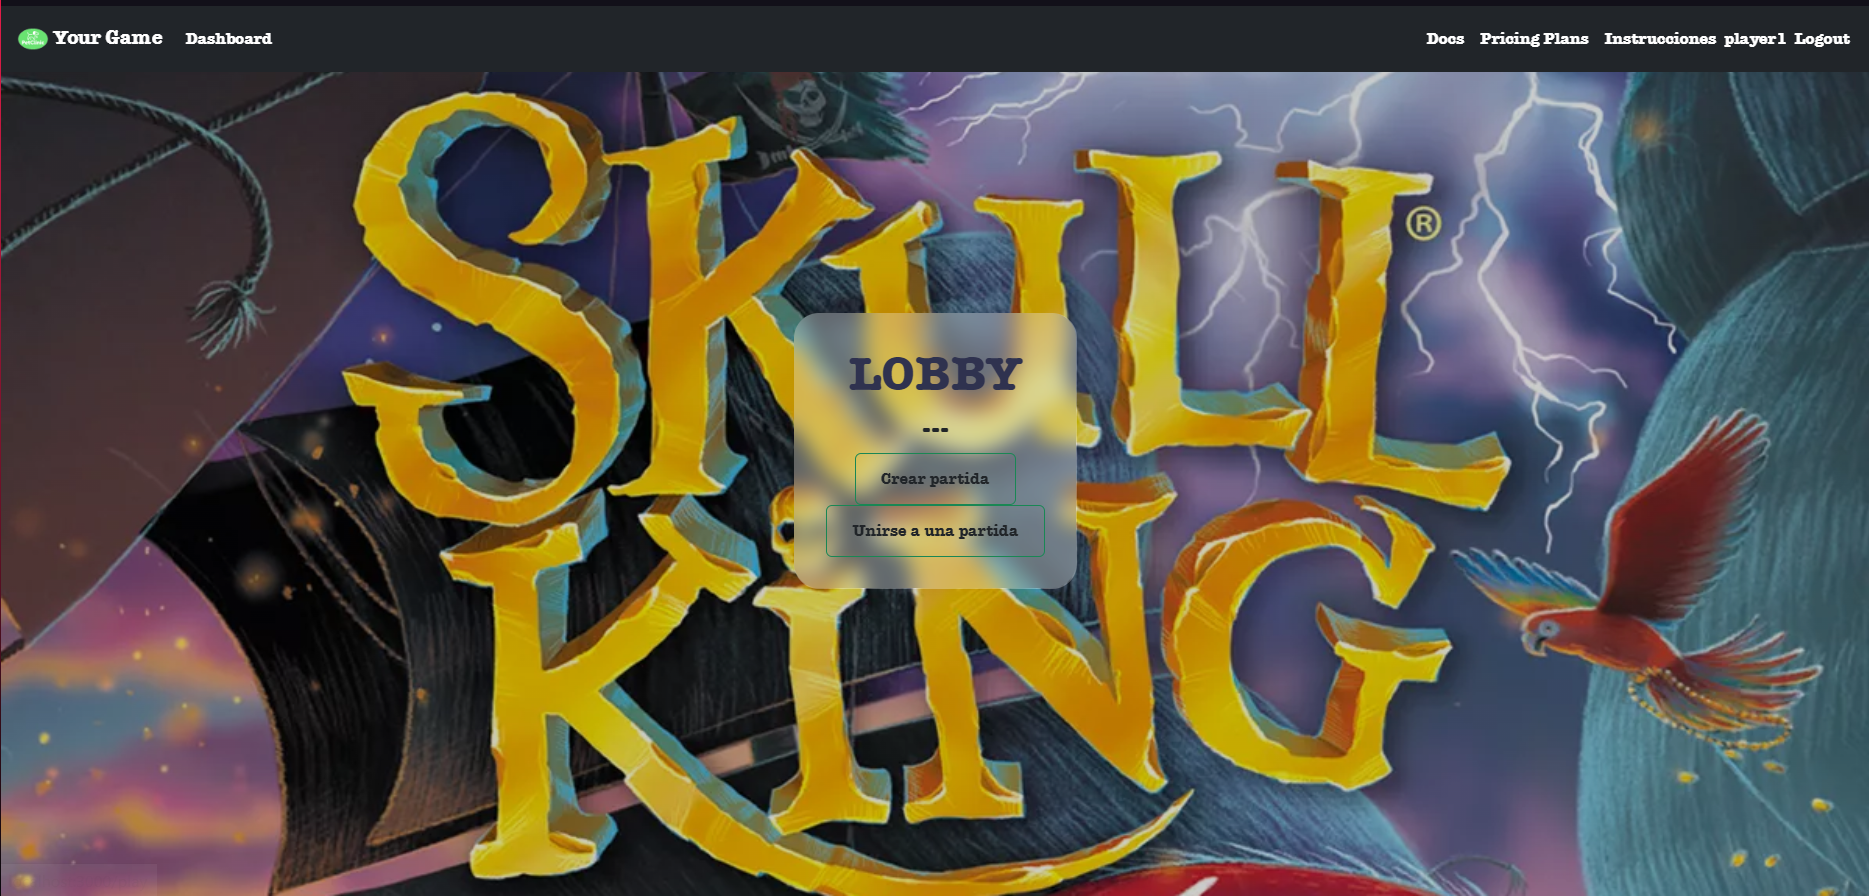
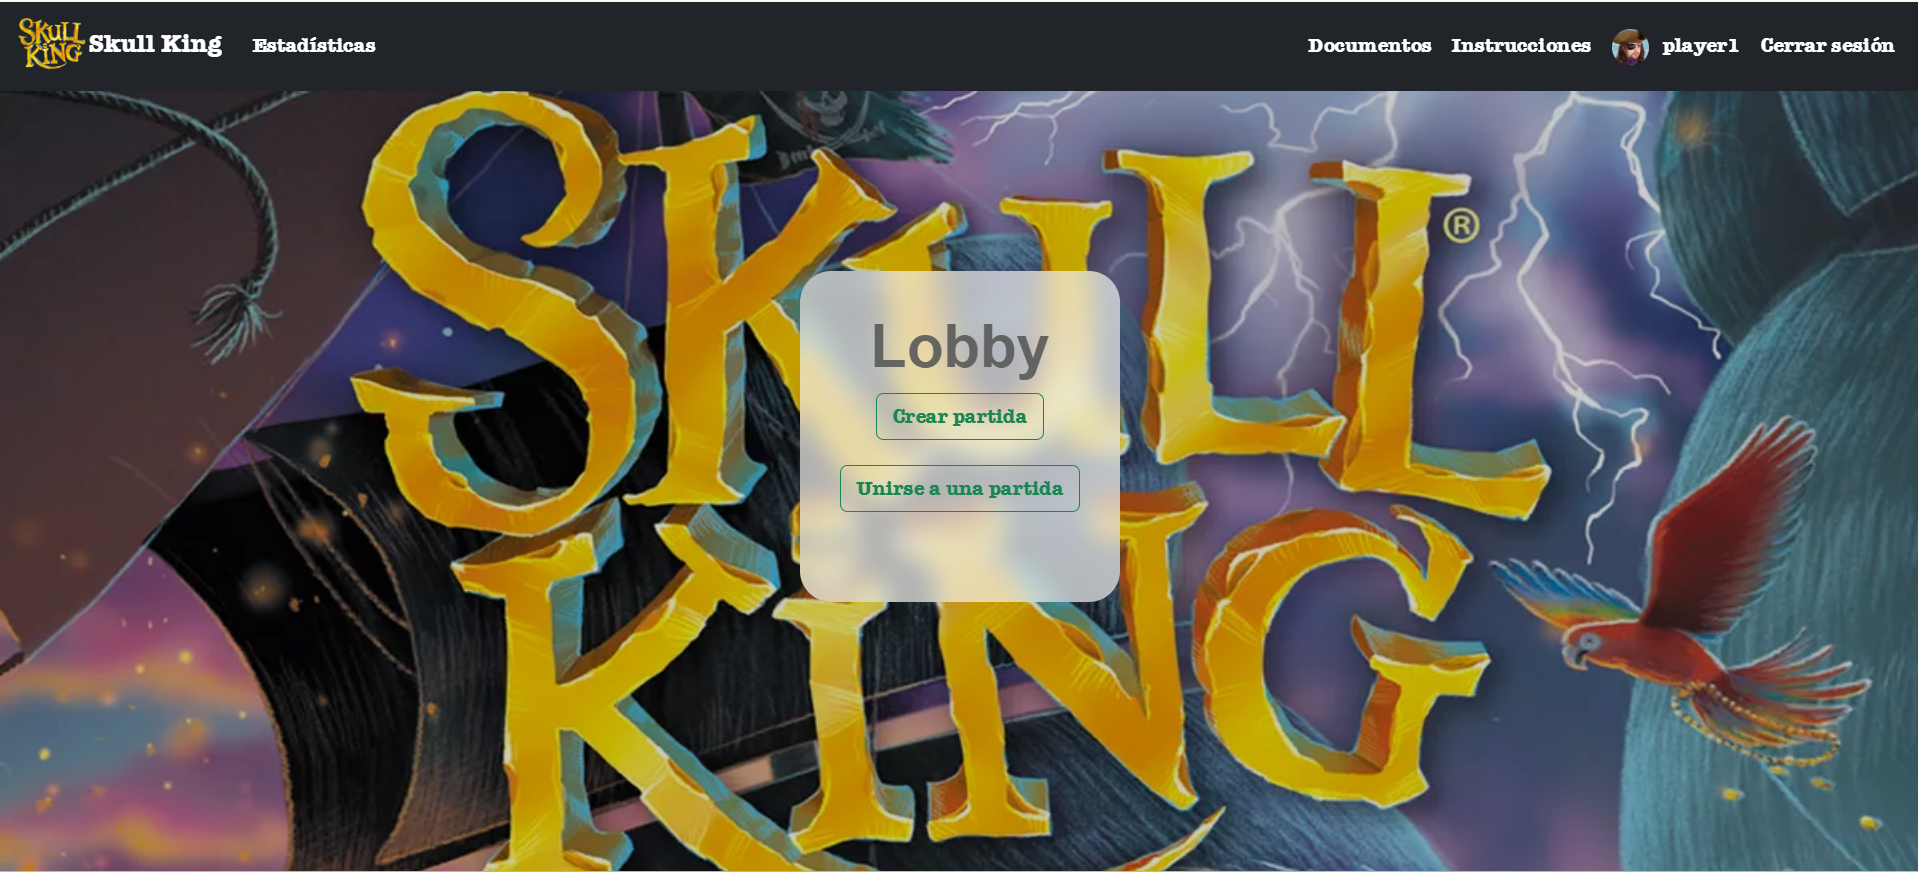
Análisis de requisitos actualizado imagenes y nuevas HGJ, perfil, jugador borrar cascada, chat en el diagrama de dominio/clases

diff --git a/frontend/src/perfil/index.js b/frontend/src/perfil/index.js
@@ -113,6 +113,14 @@ export default function Perfil() {
         return <p>No se encontraron datos del usuario.</p>;
     }
 
+    const handleVolverPartida = () => {
+        if (lastPlayer && ( lastPlayer.partida.estado === "JUGANDO" || lastPlayer.partida.estado === "ESPERANDO")) {
+          navigate(lastPlayer.partida.estado === "ESPERANDO" ? `/salaEspera/${lastPlayer.partida.id}` : `/tablero/${lastPlayer.partida.id}`)
+        } else {
+          alert("No estás jugando ninguna partida.");
+        }
+      };
+
     return (
         <div className="perfil-container">
             <h2 className="perfil-title">Mi Perfil</h2>
@@ -153,6 +161,12 @@ export default function Perfil() {
                         >
                             Eliminar Perfil
                         </Button>
+                    </>
+                )}
+
+                {hasRestrictedPlayer && (
+                    <>
+                        <Button outline color="success" onClick={handleVolverPartida}>Volver a partida</Button>
                     </>
                 )}
                 <Button

diff --git a/src/main/java/es/us/dp1/lx_xy_24_25/your_game_name/jugador/Jugador.java b/src/main/java/es/us/dp1/lx_xy_24_25/your_game_name/jugador/Jugador.java
@@ -6,9 +6,11 @@ import org.hibernate.annotations.OnDeleteAction;
 import es.us.dp1.lx_xy_24_25.your_game_name.model.BaseEntity;
 import es.us.dp1.lx_xy_24_25.your_game_name.partida.Partida;
 import es.us.dp1.lx_xy_24_25.your_game_name.user.User;
+import jakarta.persistence.CascadeType;
 import jakarta.persistence.Entity;
 import jakarta.persistence.JoinColumn;
 import jakarta.persistence.ManyToOne;
+import jakarta.persistence.OneToOne;
 import jakarta.validation.constraints.NotNull;
 import jakarta.validation.constraints.PositiveOrZero;
 import lombok.EqualsAndHashCode;
@@ -31,6 +33,8 @@ public class Jugador extends BaseEntity {
     @NotNull
     @ManyToOne(optional = false)
     @JoinColumn(name = "user_id")
+
+	@OneToOne(cascade = { CascadeType.DETACH, CascadeType.REFRESH, CascadeType.PERSIST, CascadeType.REMOVE })
     @OnDelete(action = OnDeleteAction.CASCADE)
     private User usuario;
 

diff --git a/docs/deliverables/Análisis de requisitos del sistema.md b/docs/deliverables/Análisis de requisitos del sistema.md
@@ -92,20 +92,35 @@ A continuación se definen todas las historias de usuario a implementar:
 ### HGJ2-(ISSUE#50): Iniciar sesión ([https://github.com/gii-is-DP1/DP1-2024-2025--l7-5/issues/50]())
 | "Como jugador o administrador quiero poder iniciar sesión en el juego para jugar desde mi usuario."| 
 |-----|
-|![Iniciar sesión](../mockups/Login.png)|
+|![Iniciar sesión](../mockups/Iniciar_sesion.png)|
 |Tienes que rellenar los datos solicitados para verificar que efectivamente es tu usuario, finalmente puedes presionar "Iniciar sesión", en el cual si los datos son correctos entrarás en tu perfil redirigiendote a la página principal.|
 |Caso negativo: Si el usuario o la contraseña son incorrectos, se mostrará un error en el que se indicará que los datos de inicio de sesión son incorrectos, pudiendo introducirlos nuevamente.|
 
 ### HGJ3-(ISSUE#51): Cerrar sesión ([https://github.com/gii-is-DP1/DP1-2024-2025--l7-5/issues/51]())
 | "Como jugador o administrador quiero poder cerrar sesión para salirme de mi usuario y evitar que otras personas lo usen."| 
 |-----|
-|![Cerrar sesión](../mockups/Logout.png)|
+|![Cerrar sesión](../mockups/Cerrar_sesion.png)|
 |Siempre y cuando tengas la sesión abierta, aparecerá en la barra de navegación el botón "Cerrar sesión", una vez presionado te redirigirá a una pantalla de cierre de sesión en la que confirmará la selección y ya no estarás con la sesión abierta en tu perfil.|
 
-### HGJ4-(ISSUE#52): Editar perfil de usuario ([https://github.com/gii-is-DP1/DP1-2024-2025--l7-5/issues/52]())
+
+### HGJ4-(ISSUE#203): Ver perfil de usuario ([https://github.com/gii-is-DP1/DP1-2024-2025--l7-5/issues/203]())
+| "Como jugador quiero poder ver mi perfil para saber la información que muestro en el juego."| 
+|-----|
+|![Ver perfil](../mockups/Ver_perfil.png)|
+| Siempre que se encuentre con la sesión abierta podrá ver su propio perfil y tendrá la opción de editar o eliminar su cuenta.|
+|Caso negativo: Si el usuario ya se encuentra en una sala de espera para jugar o en una partida en curso el sistema no le permitirá eliminar ni modificar su perfil hasta que termine la partida. En cambio le aparecerá un botón para volver a la partida.|
+|![Ver perfil en juego](../mockups/Ver_perfil_jugando.png)|
+
+### HGJ5-(ISSUE#52): Editar perfil de usuario ([https://github.com/gii-is-DP1/DP1-2024-2025--l7-5/issues/52]())
 | "Como jugador quiero poder editar mi perfil para modificar mi información a mi elección."| 
 |-----|
 |![Editar perfil](../mockups/Editar_perfil.png)|
+|  |
+
+### HGJ6-(ISSUE#204): Eliminar perfil de usuario ([https://github.com/gii-is-DP1/DP1-2024-2025--l7-5/issues/204]())
+| "Como jugador quiero poder eliminar mi propia cuenta."| 
+|-----|
+|![Editar perfil](../mockups/Eliminar_perfil.png)|
 |  |
 
 ### HGA1-(ISSUE#30): Listado usuarios registrados ([https://github.com/gii-is-DP1/DP1-2024-2025--l7-5/issues/30]())
@@ -368,3 +383,9 @@ No pueden existir dos partidas en curso o en espera con el mismo nombre.
 
 ### R42 - Tiempo de apuesta
 Tras el reparto de cartas se deberá apostar dentro del tiempo establecido (20 segundos), en otro caso, la apuesta se establecerá a 0.
+
+### R43 - Borrar su propio usuario
+Una vez te encuentras en la sala de espera de una partida o en una partida en curso no podrás borrar tu propia cuenta hasta que no termines la partida iniciada.
+
+### R44 - Editar su propio usuario
+Una vez te encuentras en la sala de espera de una partida o en una partida en curso no podrás editar ninguna información de tu propia cuenta hasta que no termines la partida iniciada.
